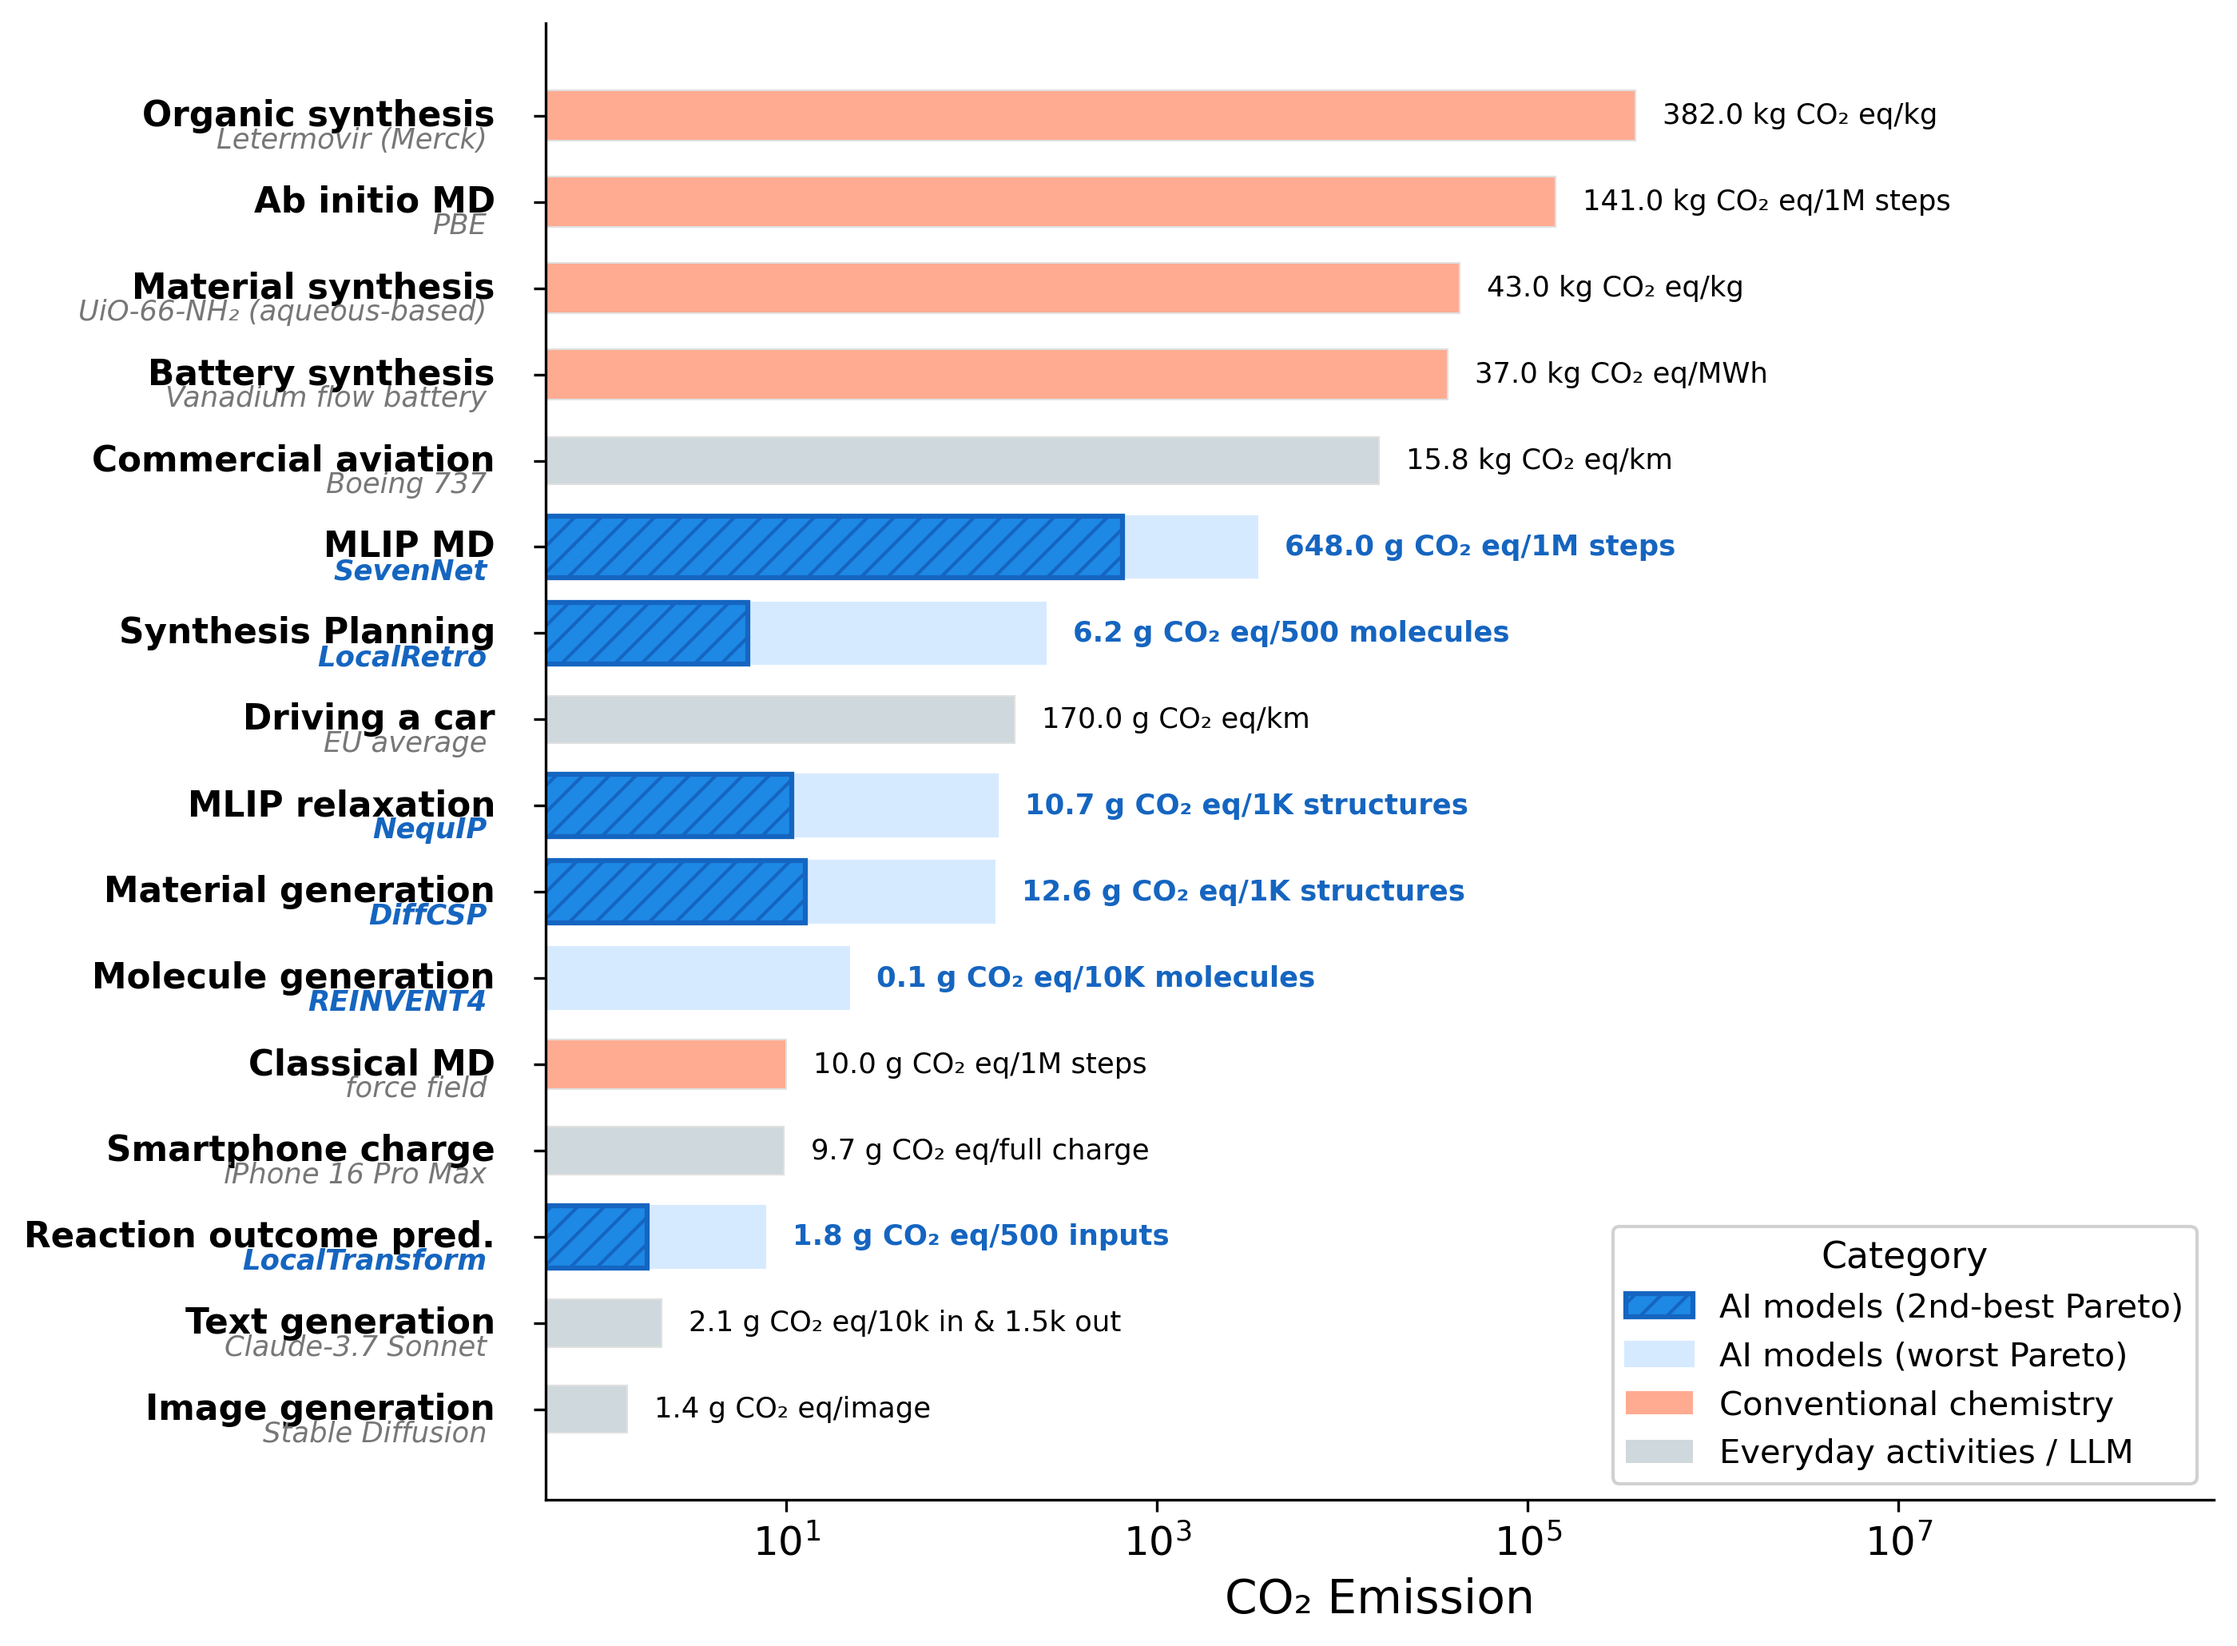
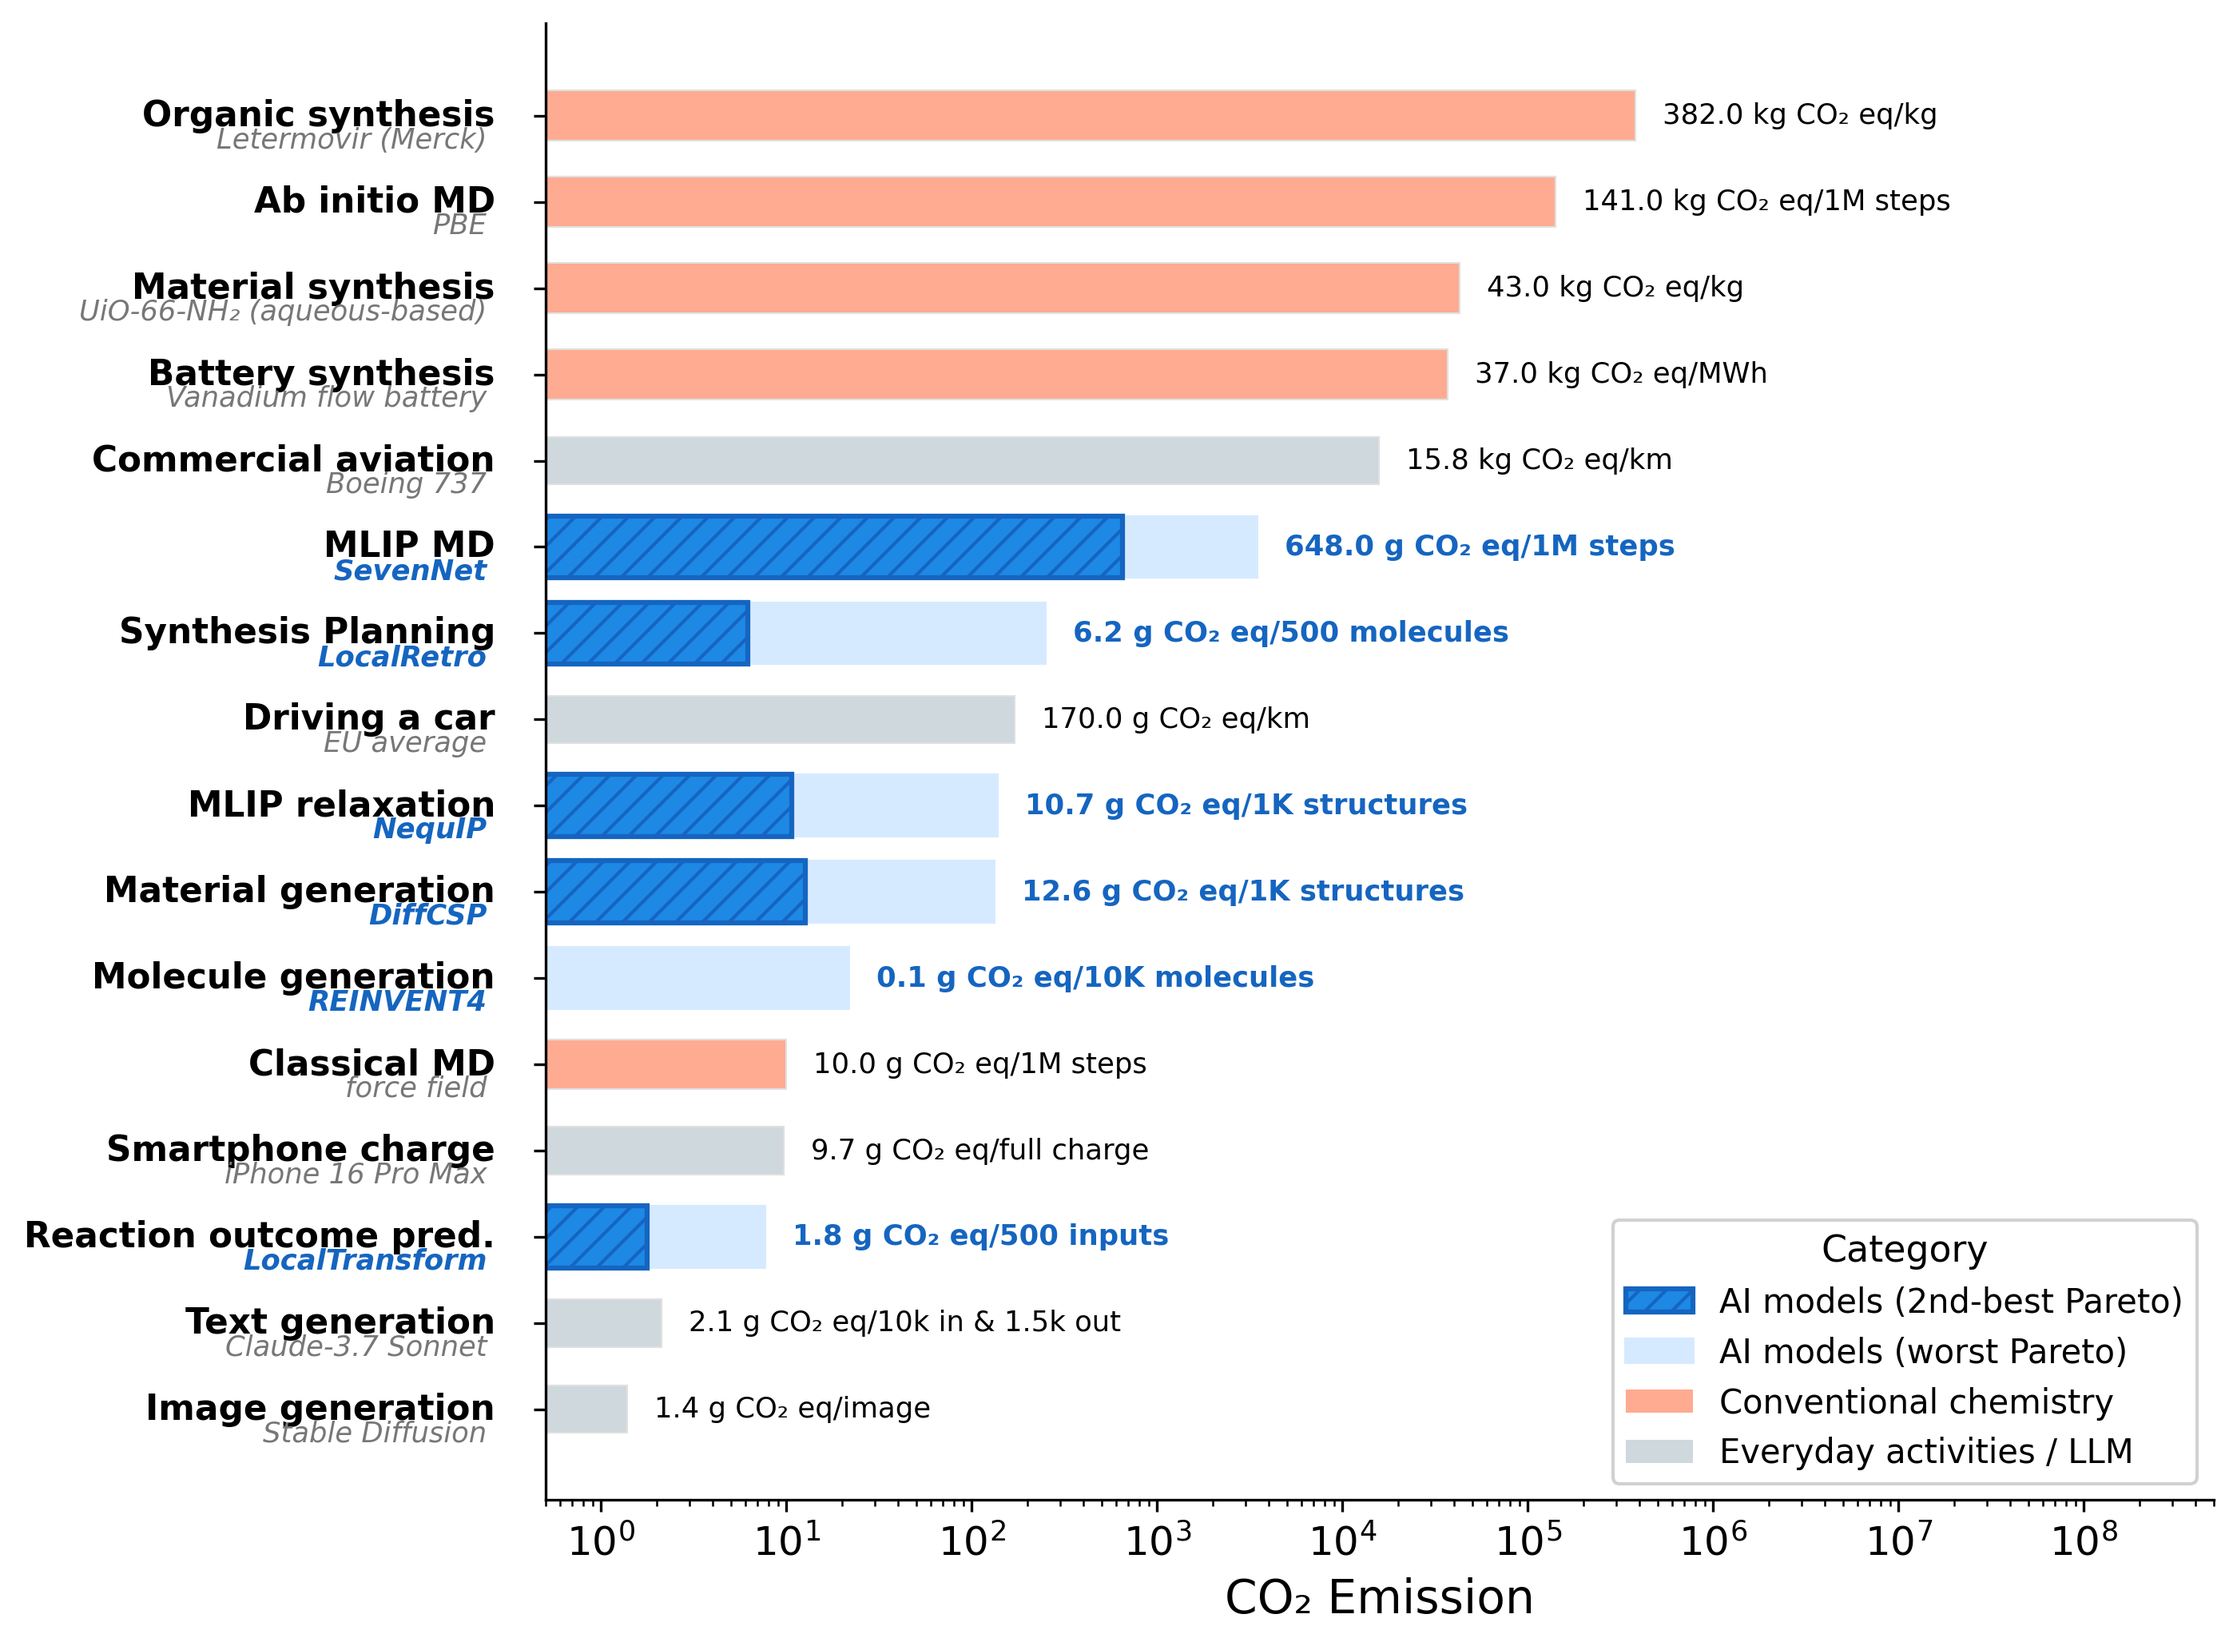
Update MolGen results from MolGen branch
- Replace 7 result JSONs and add DeFoG (8 models total)
- Rename hgraph2graph_10000.json -> hiervae_10000.json
- New schema: validity/uniqueness/novelty/sascore/vun/vuns
- Update README, all_data.csv, docs/data.js with new params/numbers
- Re-class DeFoG as 2025 ICML; rename minor metric label SUN -> VUNS
- Bump SmileyLlama VUN to 94.30% (best-performing MolGen model)
- Regenerate all 10 figures

Changed region(s): [[0.7146, 0.7146, 0.9943, 0.8699], [0.7457, 0.932, 0.7768, 0.9631], [0.2486, 0.932, 0.2796, 0.9631]]

diff --git a/docs/data.js b/docs/data.js
@@ -15,14 +15,14 @@ const ALL_DATA = [
   { task: "Forward", year: 2022, venue: "ML:ST", model: "Chemformer", modelType: "LM", modelSize: "44.7M", major_metric: 89.8, minor_metric: 89.0, inference_time_per_exp: 45288, CO2_per_exp: 580.0, CO2_per_job: 7.25, baseline: false },
   { task: "Forward", year: 2022, venue: "Chem. Sci.", model: "RSMILES", modelType: "LM", modelSize: "44.6M", major_metric: 94.7, minor_metric: 89.4, inference_time_per_exp: 46209, CO2_per_exp: 614.7, CO2_per_job: 7.68, baseline: false },
   { task: "Forward", year: 2024, venue: "COLM", model: "LlaSMol", modelType: "LLM", modelSize: "7.2B", major_metric: 5.9, minor_metric: 3.8, inference_time_per_exp: 104960, CO2_per_exp: 1413.8, CO2_per_job: 17.67, baseline: false },
-  { task: "MolGen", year: 2017, venue: "J. Cheminf.", model: "REINVENT", modelType: "LM", modelSize: "4.4M", major_metric: 87.90, minor_metric: 74.40, inference_time_per_exp: 10, CO2_per_exp: 0.11, CO2_per_job: 0.18, baseline: true },
-  { task: "MolGen", year: 2018, venue: "ICML", model: "JT-VAE", modelType: "VAE", modelSize: "7.1M", major_metric: 91.39, minor_metric: 75.70, inference_time_per_exp: 1284, CO2_per_exp: 20.4, CO2_per_job: 10.58, baseline: false },
-  { task: "MolGen", year: 2020, venue: "ICML", model: "HierVAE", modelType: "VAE", modelSize: "8.0M", major_metric: 92.10, minor_metric: 77.98, inference_time_per_exp: 788, CO2_per_exp: 14.4, CO2_per_job: 11.97, baseline: false },
-  { task: "MolGen", year: 2021, venue: "J. Chem. Inf. Model.", model: "MolGPT", modelType: "LM", modelSize: "6.4M", major_metric: 77.15, minor_metric: 65.00, inference_time_per_exp: 60, CO2_per_exp: 1.85, CO2_per_job: 1.07, baseline: false },
-  { task: "MolGen", year: 2023, venue: "ICML", model: "DiGress", modelType: "Diffusion", modelSize: "16.2M", major_metric: 82.45, minor_metric: 78.71, inference_time_per_exp: 11931, CO2_per_exp: 392.0, CO2_per_job: 175.35, baseline: false },
-  { task: "MolGen", year: 2024, venue: "J. Cheminf.", model: "REINVENT4", modelType: "LM", modelSize: "5.8M", major_metric: 94.16, minor_metric: 75.65, inference_time_per_exp: 10, CO2_per_exp: 0.09, CO2_per_job: 0.07, baseline: false },
-  { task: "MolGen", year: 2024, venue: "arXiv", model: "SmileyLlama", modelType: "LLM", modelSize: "8.0B", major_metric: 94.26, minor_metric: 77.75, inference_time_per_exp: 645, CO2_per_exp: 22.7, CO2_per_job: 21.79, baseline: false },
-  { task: "MolGen", year: 2024, venue: "NeurIPS", model: "DeFoG", modelType: "Flow Matching", modelSize: "16.3M", major_metric: 82.27, minor_metric: 75.90, inference_time_per_exp: 9874, CO2_per_exp: 355.2, CO2_per_job: 355.24, baseline: false },
+  { task: "MolGen", year: 2017, venue: "J. Cheminf.", model: "REINVENT", modelType: "LM", modelSize: "4.2M", major_metric: 87.90, minor_metric: 80.88, inference_time_per_exp: 14, CO2_per_exp: 0.18, CO2_per_job: 0.18, baseline: true },
+  { task: "MolGen", year: 2018, venue: "ICML", model: "JT-VAE", modelType: "VAE", modelSize: "5.3M", major_metric: 91.39, minor_metric: 89.41, inference_time_per_exp: 662, CO2_per_exp: 10.58, CO2_per_job: 10.58, baseline: false },
+  { task: "MolGen", year: 2020, venue: "ICML", model: "HierVAE", modelType: "VAE", modelSize: "8.0M", major_metric: 92.10, minor_metric: 88.89, inference_time_per_exp: 757, CO2_per_exp: 11.97, CO2_per_job: 11.97, baseline: false },
+  { task: "MolGen", year: 2021, venue: "J. Chem. Inf. Model.", model: "MolGPT", modelType: "LM", modelSize: "9.5M", major_metric: 77.15, minor_metric: 76.65, inference_time_per_exp: 37, CO2_per_exp: 1.07, CO2_per_job: 1.07, baseline: false },
+  { task: "MolGen", year: 2023, venue: "ICML", model: "DiGress", modelType: "Diffusion", modelSize: "16.2M", major_metric: 82.45, minor_metric: 81.18, inference_time_per_exp: 5201, CO2_per_exp: 175.35, CO2_per_job: 175.35, baseline: false },
+  { task: "MolGen", year: 2024, venue: "J. Cheminf.", model: "REINVENT4", modelType: "LM", modelSize: "5.8M", major_metric: 94.16, minor_metric: 85.44, inference_time_per_exp: 8, CO2_per_exp: 0.07, CO2_per_job: 0.07, baseline: false },
+  { task: "MolGen", year: 2024, venue: "arXiv", model: "SmileyLlama", modelType: "LLM", modelSize: "8.0B", major_metric: 94.3, minor_metric: 85.16, inference_time_per_exp: 638, CO2_per_exp: 21.79, CO2_per_job: 21.79, baseline: false },
+  { task: "MolGen", year: 2025, venue: "ICML", model: "DeFoG", modelType: "Flow Matching", modelSize: "16.3M", major_metric: 82.27, minor_metric: 81.73, inference_time_per_exp: 9874, CO2_per_exp: 355.24, CO2_per_job: 355.24, baseline: false },
   { task: "MatGen", year: 2022, venue: "ICLR", model: "CDVAE", modelType: "Diffusion", modelSize: "4.9M", major_metric: 22.6, minor_metric: 3.2, inference_time_per_exp: 25764, CO2_per_exp: 270.4, CO2_per_job: 270.40, baseline: true },
   { task: "MatGen", year: 2023, venue: "NeurIPS", model: "DiffCSP", modelType: "Diffusion", modelSize: "12.4M", major_metric: 29.0, minor_metric: 4.3, inference_time_per_exp: 381, CO2_per_exp: 12.7, CO2_per_job: 12.60, baseline: false },
   { task: "MatGen", year: 2024, venue: "Nat. Commun.", model: "CrystaLLM", modelType: "LM", modelSize: "25.9M", major_metric: 16.4, minor_metric: 3.5, inference_time_per_exp: 942, CO2_per_exp: 19.3, CO2_per_job: 19.20, baseline: false },

diff --git a/docs/index.html b/docs/index.html
@@ -498,7 +498,7 @@
 const TASK_CONFIG = {
   Retro:     { majorLabel: 'Top-50 (%)', minorLabel: 'Top-10 (%)', color: '#17becf', desc: 'USPTO-50K · 5,007 reactions',  job: '1 job = 500 inputs' },
   Forward:   { majorLabel: 'Top-3 (%)',  minorLabel: 'Top-1 (%)',  color: '#ff7f0e', desc: 'USPTO-MIT · 40,000 reactions', job: '1 job = 500 inputs' },
-  MolGen:    { majorLabel: 'VUN (%)',    minorLabel: 'SUN (%)',     color: '#1f77b4', desc: 'ChEMBL 28 · 10,000 molecules', job: '1 job = 10,000 molecules' },
+  MolGen:    { majorLabel: 'VUN (%)',    minorLabel: 'VUNS (%)',    color: '#1f77b4', desc: 'ChEMBL 28 · 10,000 molecules', job: '1 job = 10,000 molecules' },
   MatGen:    { majorLabel: 'mSUN (%)',   minorLabel: 'SUN (%)',     color: '#2ca02c', desc: 'MP-20 · 1,000 structures',     job: '1 job = 1,000 structures' },
   StructOpt: { majorLabel: 'CPS',        minorLabel: null,          color: '#d62728', desc: 'WBM · 100 structures',         job: '1 job = 1,000 structures' },
   MDSim:     { majorLabel: 'MSD',        minorLabel: null,          color: '#9467bd', desc: 'LGPS · 75K steps × 3 seeds',  job: '1 job = 1M steps' },

diff --git a/analysis/plot_figures.py b/analysis/plot_figures.py
@@ -1139,8 +1139,8 @@ ALT_METRICS = {
 }
 # MolGen VUNS is already in the pretrained data loaded in load_data()
 MOLGEN_VUNS = {
-    'REINVENT': 67.11, 'JT-VAE': 75.63, 'HierVAE': 74.18, 'MolGPT': 82.00,
-    'DiGress': 56.14, 'REINVENT4': 74.27, 'SmileyLlama': 65.95, 'DeFoG': 64.75
+    'REINVENT': 80.88, 'JT-VAE': 89.41, 'HierVAE': 88.89, 'MolGPT': 76.65,
+    'DiGress': 81.18, 'REINVENT4': 85.44, 'SmileyLlama': 85.16, 'DeFoG': 81.73
 }
 
 ALT_TASK_ORDER = ['MatGen', 'MolGen', 'Retro', 'Forward']

diff --git a/README.md b/README.md
@@ -109,16 +109,16 @@ All tasks benchmarked on the same hardware with full carbon tracking.
 **Dataset:** ChEMBL 28 · **N =** 10,000 molecules · **Metric:** VUN% · **CO₂/job:** per 10K molecules (= full exp)
 
 
-| Year | Venue                | Model         | Architecture  | Params | VUN (%)   | SUN (%)   | CO₂/exp (g) | CO₂/job (g) | Time/exp (s) | Time/job (s) |
+| Year | Venue                | Model         | Architecture  | Params | VUN (%)   | VUNS (%)  | CO₂/exp (g) | CO₂/job (g) | Time/exp (s) | Time/job (s) |
 | ---- | -------------------- | ------------- | ------------- | ------ | --------- | --------- | ----------- | ----------- | ------------ | ------------ |
-| 2017 | J. Cheminf.          | REINVENT      | LM            | 4.4M   | 87.90     | 74.40     | 0.11        | 0.18        | 10           | 14           |
-| 2018 | ICML                 | JT-VAE        | VAE           | 7.1M   | 91.39     | 75.70     | 20.4        | 10.58       | 1,284        | 662          |
-| 2020 | ICML                 | HierVAE       | VAE           | 8.0M   | 92.10     | **77.98** | 14.4        | 11.97       | 788          | 756          |
-| 2021 | J. Chem. Inf. Model. | MolGPT        | LM            | 6.4M   | 77.15     | 65.00     | 1.85        | 1.07        | 60           | 37           |
-| 2023 | ICML                 | DiGress       | Diffusion     | 16.2M  | 82.45     | 78.71     | 392.0       | 175.35      | 11,931       | 5,201        |
-| 2024 | J. Cheminf.          | **REINVENT4** | LM            | 5.8M   | **94.16** | 75.65     | **0.09**    | **0.07**    | **10**       | **8**        |
-| 2024 | arXiv                | SmileyLlama   | LLM           | 8.0B   | 94.26     | 77.75     | 22.7        | 21.79       | 645          | 638          |
-| 2024 | NeurIPS              | DeFoG         | Flow Matching | 16.3M  | 82.27     | 75.90     | 355.2       | 355.24      | 9,874        | 9,874        |
+| 2017 | J. Cheminf.          | REINVENT      | LM            | 4.2M   | 87.90     | 80.88     | 0.18        | 0.18        | 14           | 14           |
+| 2018 | ICML                 | JT-VAE        | VAE           | 5.3M   | 91.39     | **89.41** | 10.58       | 10.58       | 662          | 662          |
+| 2020 | ICML                 | HierVAE       | VAE           | 8.0M   | 92.10     | 88.89     | 11.97       | 11.97       | 757          | 757          |
+| 2021 | J. Chem. Inf. Model. | MolGPT        | LM            | 9.5M   | 77.15     | 76.65     | 1.07        | 1.07        | 37           | 37           |
+| 2023 | ICML                 | DiGress       | Diffusion     | 16.2M  | 82.45     | 81.18     | 175.35      | 175.35      | 5,201        | 5,201        |
+| 2024 | J. Cheminf.          | REINVENT4     | LM            | 5.8M   | 94.16     | 85.44     | **0.07**    | **0.07**    | **8**        | **8**        |
+| 2024 | arXiv                | **SmileyLlama** | LLM         | 8.0B   | **94.30** | 85.16     | 21.79       | 21.79       | 638          | 638          |
+| 2025 | ICML                 | DeFoG         | Flow Matching | 16.3M  | 82.27     | 81.73     | 355.24      | 355.24      | 9,874        | 9,874        |
 
 
 ---
